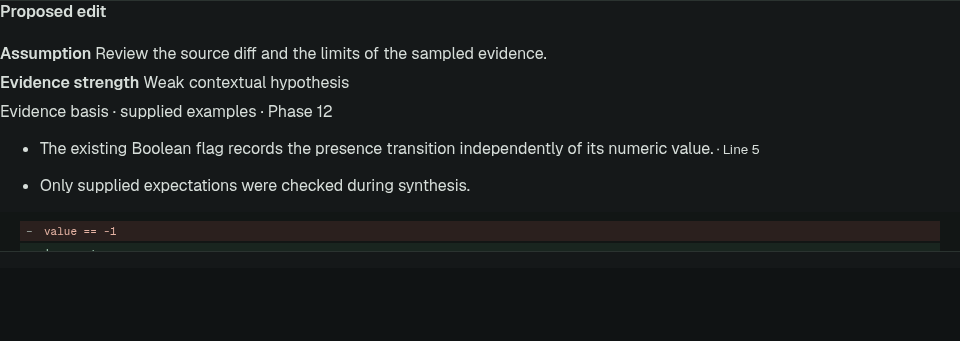
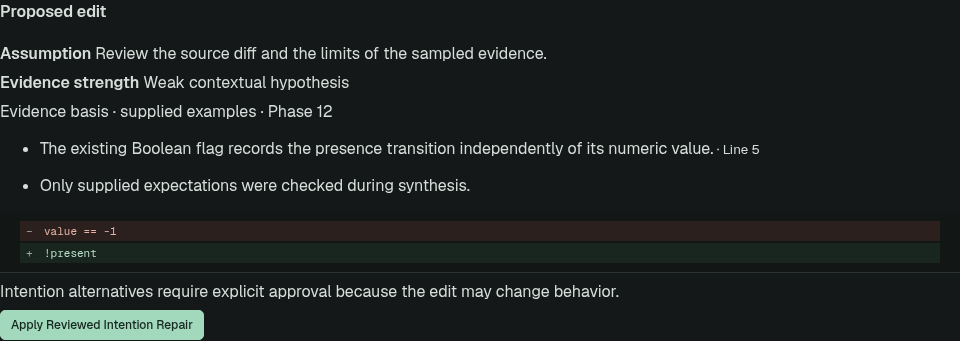
Keep the Phase 13 review visible and allow worker CI headroom

Changed region(s): [[0.0, 0.8211, 0.6562, 0.8798], [0.0, 0.9091, 0.2188, 0.9971], [0.0, 0.7331, 0.0938, 0.7625]]

diff --git a/frontend/src/styles.css b/frontend/src/styles.css
@@ -1106,7 +1106,7 @@ summary code {
 .live-behavior li { margin-block: .35rem; overflow-wrap: anywhere; }
 .live-behavior li button { margin-inline-start: .55rem; }
 .live-behavior .diff-before, .live-behavior .diff-after { padding: .65rem; }
-.inspector-body:has(.intention-panel:is([data-engine="5"], [data-engine="55"], [data-engine="6"], [data-engine="65"], [data-engine="7"], [data-engine="75"], [data-engine="8"], [data-engine="10"], [data-engine="105"], [data-engine="11"], [data-engine="115"], [data-engine="12"]) [aria-label="Intention results"]) { height: auto; }
+.inspector-body:has(.intention-panel:is([data-engine="5"], [data-engine="55"], [data-engine="6"], [data-engine="65"], [data-engine="7"], [data-engine="75"], [data-engine="8"], [data-engine="10"], [data-engine="105"], [data-engine="11"], [data-engine="115"], [data-engine="12"], [data-engine="13"]) [aria-label="Intention results"]) { height: auto; }
 
 .guided-evidence { border: 1px solid var(--border); border-radius: 6px; padding: .65rem .8rem; margin: .75rem 0; }
 .guided-evidence [role="alert"] { font-weight: 700; }
